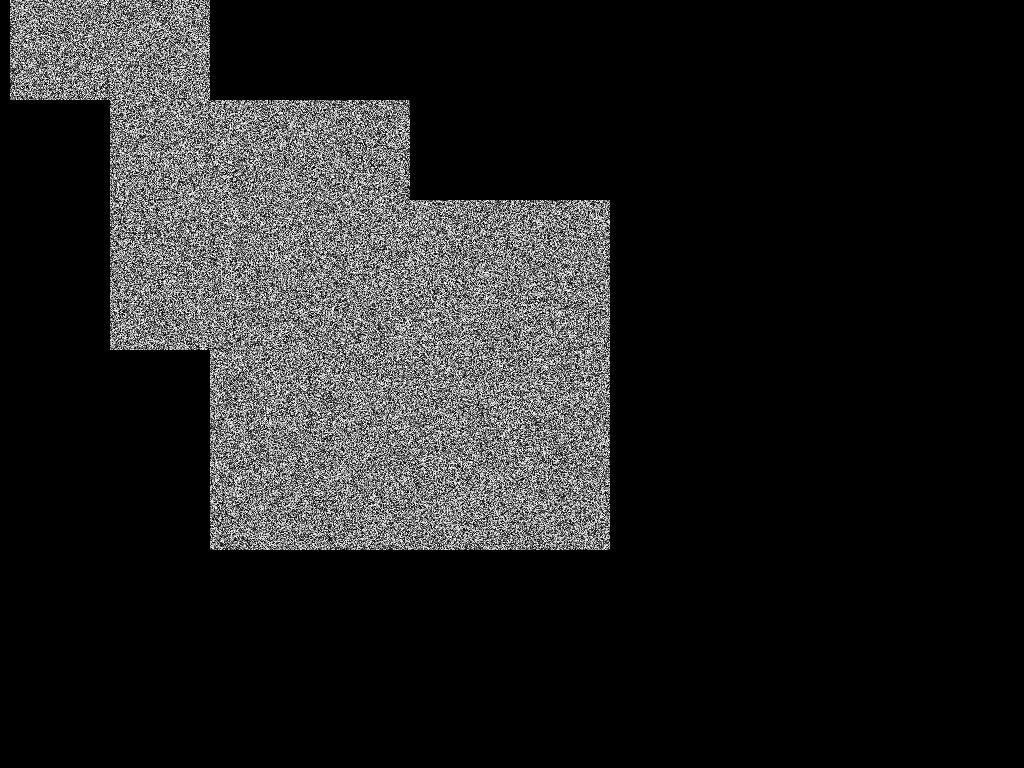
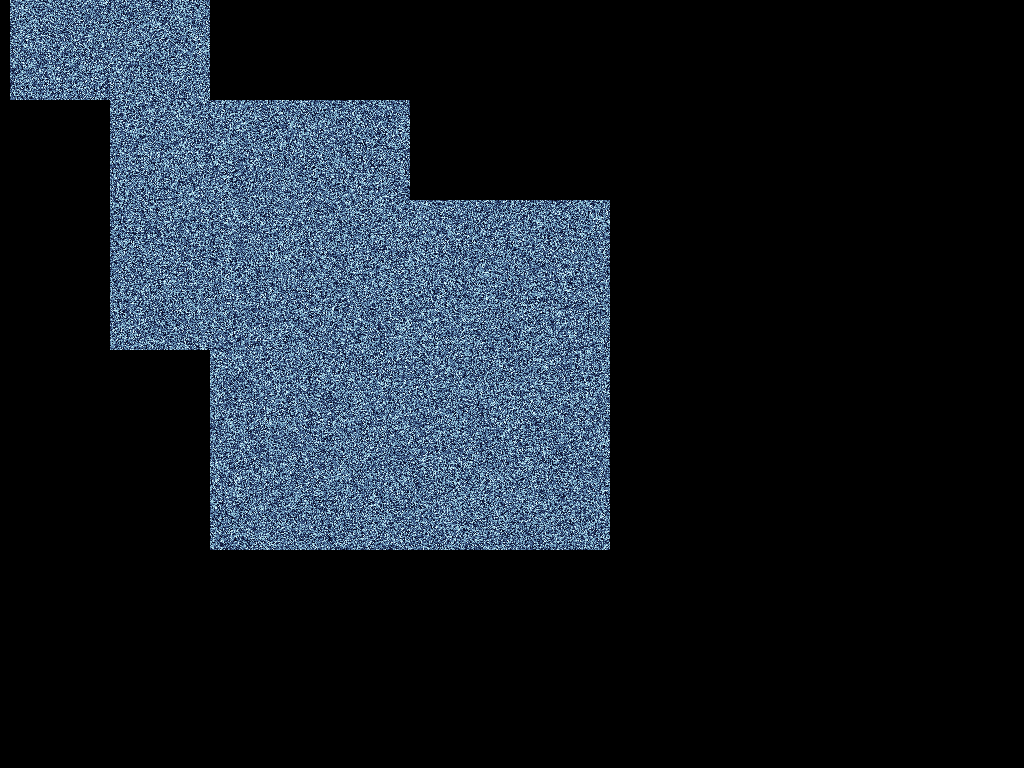
color with colormap

Changed region(s): [[0.0, 0.0, 0.5938, 0.7188]]

diff --git a/cinemasci/cis/render.py b/cinemasci/cis/render.py
@@ -1,5 +1,6 @@
 import numpy as np
 import skimage.color
+from scipy.interpolate import interp1d
 
 
 def paste(x, y, offset):
@@ -24,12 +25,17 @@ class render():
         image = cis.get_image(iname)
 
         result = np.zeros((cis.dims[1], cis.dims[0], 3))
+        points = cis.colormaps['blue-1'].get_points()
+        colormap = np.asarray(points)
 
+        values = colormap[:, 0]
+        rgbs = colormap[:, 2:]
+        cmap = interp1d(values, rgbs, axis=0)
         # for now, assume only variables (no shadow, depth, etc.)
         for layer in lnames:
             l = image.get_layer(layer)
             if l:
-                arr = skimage.color.gray2rgb(l.get_channel(cnames[0]).data)
+                arr = cmap(l.get_channel(cnames[0]).data)
                 result = paste(result, arr, l.offset)
 
         return result
